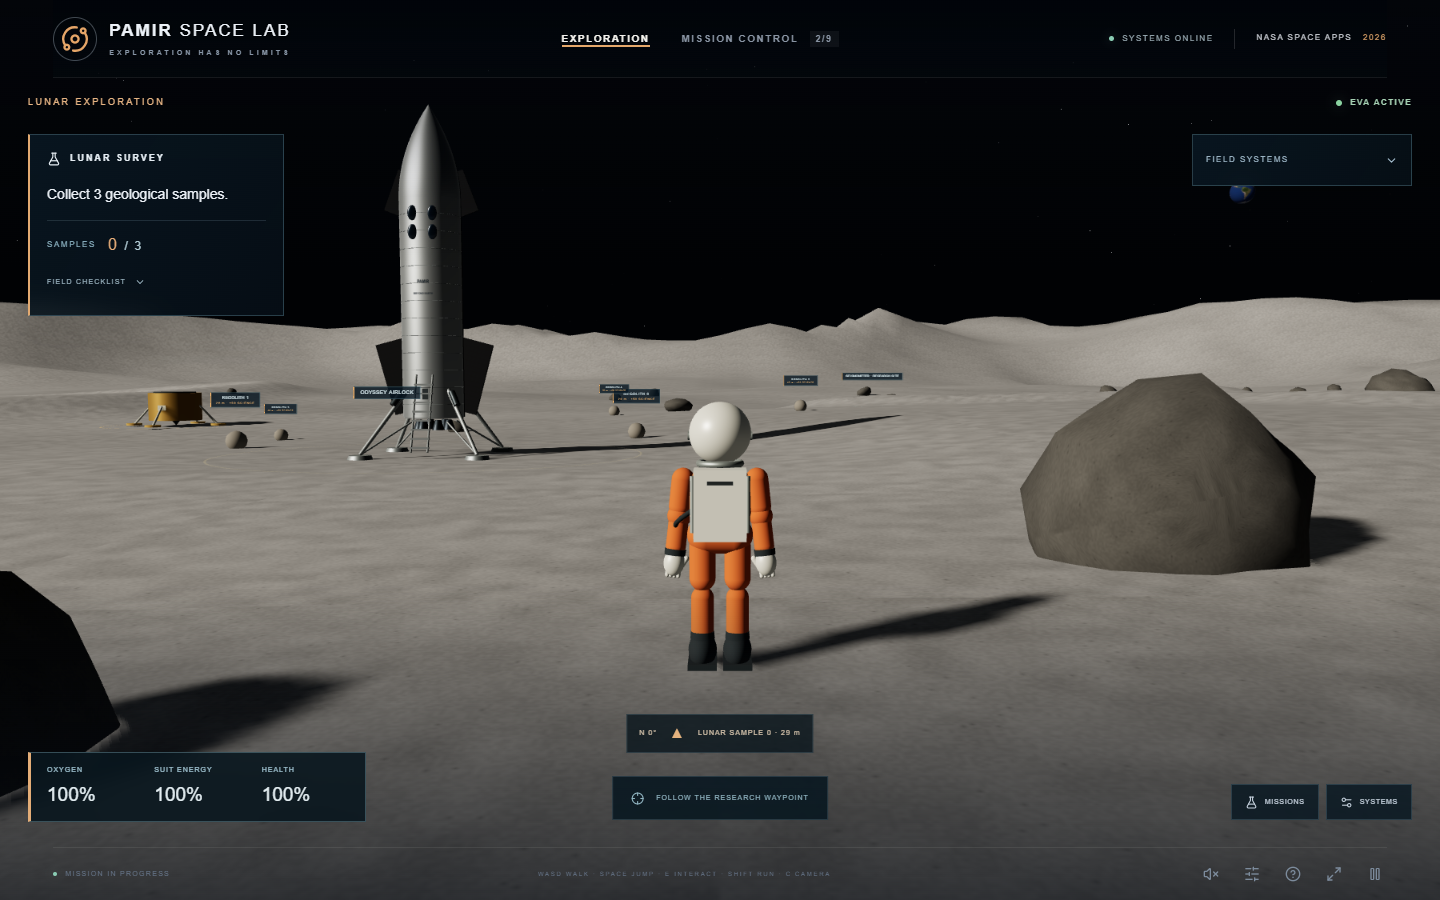
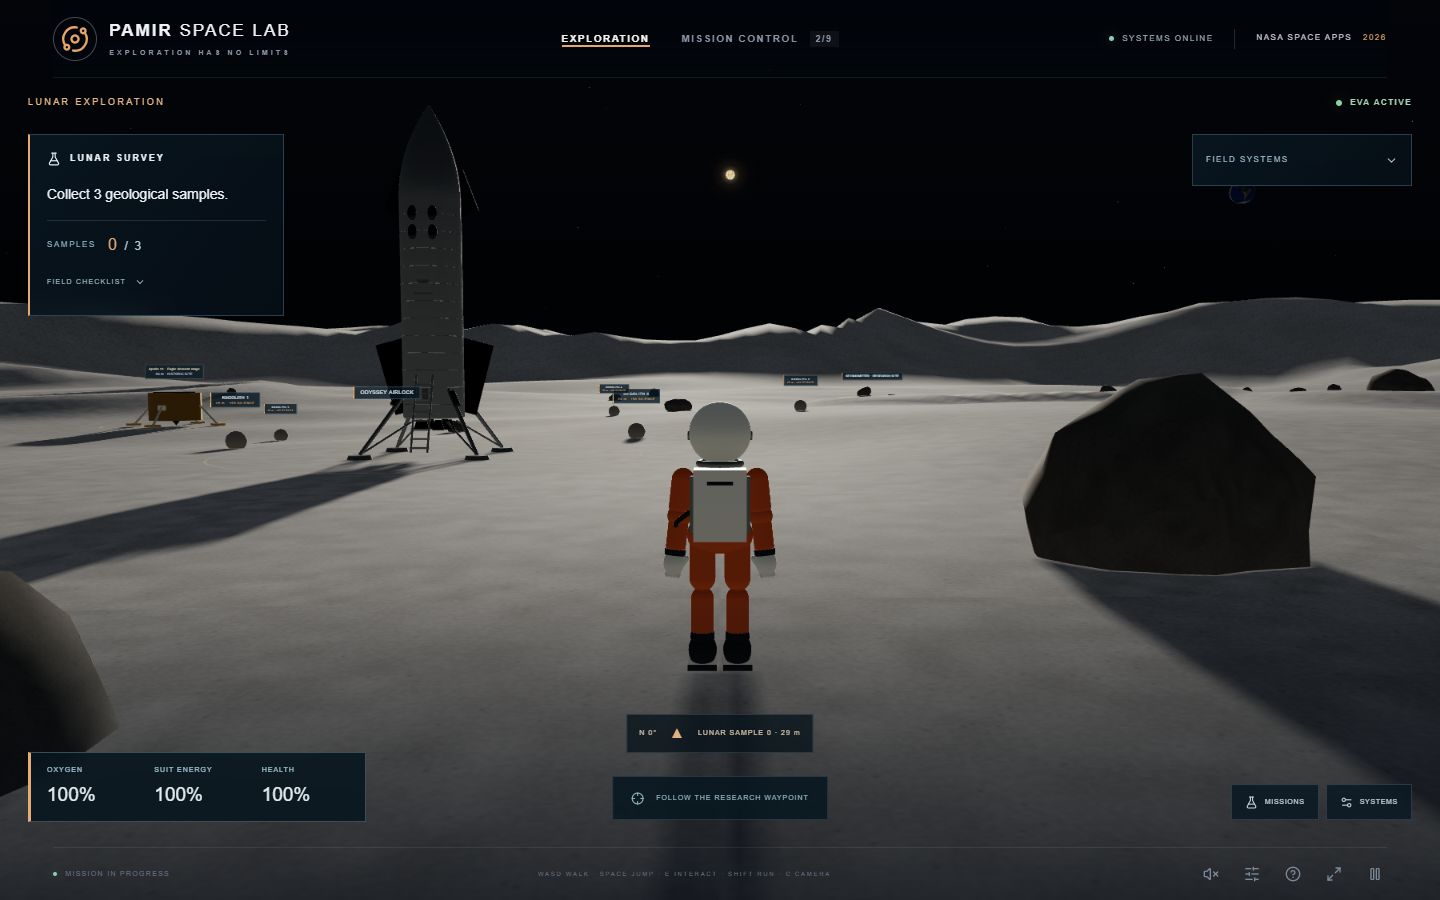
Add visible procedural Sun with aligned orbital and lunar lighting

diff --git a/src/Scene.tsx b/src/Scene.tsx
@@ -1,4 +1,6 @@
 import RoboticWorld from './RoboticWorld';
+import Sun from './Sun';
+import {SPACE_SUN_DIRECTION} from './solarLighting';
 import { usePlanetMissions } from './planetMissionStore';
 import { PlanetMissionRuntime,MissionProbe } from './PlanetMissionUI';
 import { useEffect, useMemo, useRef, useState } from 'react';
@@ -67,5 +69,5 @@ function Flight(){
   return <group ref={ship} visible={!started||(!surface&&useExpedition.getState().mode==='flight')}><Ship boost={keys.has('ShiftLeft')}/></group>;
 }
 function Starfield(){const group=useRef<THREE.Group>(null),camera=useThree(s=>s.camera),quality=useExpedition(s=>s.graphics);useFrame(()=>{group.current?.position.copy(camera.position);});return <group ref={group}><Stars radius={8000} depth={2000} count={quality==='LOW'?1500:quality==='MEDIUM'?3500:6500} factor={60} saturation={.1} fade speed={.025}/></group>;}
-function World(){const robot=usePlanetMissions(s=>s.robot);const surface=useGame(s=>s.surface);const stage=useGame(s=>s.mars.stage);const started=useGame(s=>s.started);const target=useGame(s=>s.target);const mode=useExpedition(s=>s.mode);const graphics=useExpedition(s=>s.graphics);const robotSurface=started&&!!robot&&surface===robot.planet;const marsSurface=started&&onMars(stage);const interior=started&&(mode==='station'||mode==='cabin');return <><ReflectionEnvironment/><Inputs/><ExpeditionRuntime/><PlanetMissionRuntime/>{interior?<ExpeditionWorld/>:<>{!robotSurface&&!marsSurface&&surface!=='Earth'&&<Starfield/>}{robotSurface?<RoboticWorld/>:marsSurface?<MarsWorld/>:started&&surface?(surface==='Earth'?<EarthPort/>:<MoonWorld/>):<><ambientLight intensity={.055}/><directionalLight position={[30,20,25]} intensity={3.3} color="#fffaf3"/><group scale={!started||mode==='flight'?ORBITAL_SCALE:1}>{planets.map(p=><Planet key={p.name} data={p} visible={started||p.name===target}/>)}{started&&<><StationOrbit/><EarthSatellites/><MissionProbe/></>}</group>{started&&mode==='eva'&&<ExpeditionWorld/>}</>}</>}<Flight/></>;}
+function World(){const robot=usePlanetMissions(s=>s.robot);const surface=useGame(s=>s.surface);const stage=useGame(s=>s.mars.stage);const started=useGame(s=>s.started);const target=useGame(s=>s.target);const mode=useExpedition(s=>s.mode);const graphics=useExpedition(s=>s.graphics);const robotSurface=started&&!!robot&&surface===robot.planet;const marsSurface=started&&onMars(stage);const interior=started&&(mode==='station'||mode==='cabin');return <><ReflectionEnvironment/><Inputs/><ExpeditionRuntime/><PlanetMissionRuntime/>{interior?<ExpeditionWorld/>:<>{!robotSurface&&!marsSurface&&surface!=='Earth'&&<Starfield/>}{robotSurface?<RoboticWorld/>:marsSurface?<MarsWorld/>:started&&surface?(surface==='Earth'?<EarthPort/>:<MoonWorld/>):<><ambientLight intensity={.055}/><Sun/><directionalLight position={SPACE_SUN_DIRECTION} intensity={3.3} color="#fffaf3"/><group scale={!started||mode==='flight'?ORBITAL_SCALE:1}>{planets.map(p=><Planet key={p.name} data={p} visible={started||p.name===target}/>)}{started&&<><StationOrbit/><EarthSatellites/><MissionProbe/></>}</group>{started&&mode==='eva'&&<ExpeditionWorld/>}</>}</>}<Flight/></>;}
 export default function Scene(){const [resolutionScale,setResolutionScale]=useState(1);const quality=useExpedition(s=>s.graphics);return <Canvas shadows camera={{position:[0,2,24],fov:48,near:.05,far:40000}} dpr={(quality==='LOW'?1:quality==='MEDIUM'?1.25:1.75)*resolutionScale} gl={{antialias:true,alpha:false}} onCreated={({gl})=>{gl.setClearColor('#03070e');}} onPointerDown={(e)=>{if(e.nativeEvent.pointerType!=='mouse')return;const s=useGame.getState();if(s.started&&!s.paused&&!s.uiBlocked){const canvas=e.target as HTMLCanvasElement;canvas.requestPointerLock?.()?.catch(()=>useGame.getState().set({notice:'Mouse capture unavailable. Click and drag in space, or use arrow keys.'}));}}}><World/><PerformanceBudget key={quality} scale={resolutionScale} onScale={setResolutionScale}/></Canvas>;}

diff --git a/src/Sun.tsx b/src/Sun.tsx
@@ -1,0 +1,31 @@
+import {useEffect,useMemo,useRef} from 'react';
+import {useFrame,useThree} from '@react-three/fiber';
+import * as THREE from 'three';
+import {useGame} from './store';
+import {useExpedition} from './expeditionStore';
+import {SPACE_SUN_DIRECTION,LUNAR_SUN_DIRECTION} from './solarLighting';
+
+const vertex=`varying vec3 solarLocal;varying vec3 solarWorld;varying vec3 solarNormal;
+void main(){solarLocal=position;vec4 p=modelMatrix*vec4(position,1.);solarWorld=p.xyz;solarNormal=normalize(mat3(modelMatrix)*normal);gl_Position=projectionMatrix*viewMatrix*p;}`;
+const fragment=`uniform float solarTime;varying vec3 solarLocal;varying vec3 solarWorld;varying vec3 solarNormal;
+float solarHash(vec3 p){return fract(sin(dot(p,vec3(127.1,311.7,74.7)))*43758.5453);}
+float solarNoise(vec3 p){vec3 i=floor(p),f=fract(p);f=f*f*(3.-2.*f);return mix(mix(mix(solarHash(i),solarHash(i+vec3(1,0,0)),f.x),mix(solarHash(i+vec3(0,1,0)),solarHash(i+vec3(1,1,0)),f.x),f.y),mix(mix(solarHash(i+vec3(0,0,1)),solarHash(i+vec3(1,0,1)),f.x),mix(solarHash(i+vec3(0,1,1)),solarHash(i+vec3(1,1,1)),f.x),f.y),f.z);}
+void main(){vec3 p=normalize(solarLocal);float t=solarTime*.025;float granules=solarNoise(p*24.+vec3(t,-t,t*.4))*.55+solarNoise(p*51.-vec3(t))* .3+solarNoise(p*103.)*.15;float limb=pow(max(0.,dot(normalize(solarNormal),normalize(cameraPosition-solarWorld))),.28);vec3 gold=mix(vec3(1.,.35,.055),vec3(1.,.96,.7),smoothstep(.2,.83,granules));gold*=mix(.55,1.3,limb);gl_FragColor=vec4(gold,1.);
+#include <tonemapping_fragment>
+#include <colorspace_fragment>
+}`;
+function corona(){const canvas=document.createElement('canvas');canvas.width=canvas.height=128;const c=canvas.getContext('2d')!,g=c.createRadialGradient(64,64,0,64,64,64);g.addColorStop(0,'rgba(255,238,190,0)');g.addColorStop(.14,'rgba(255,238,190,0)');g.addColorStop(.18,'rgba(255,231,174,.42)');g.addColorStop(.34,'rgba(255,185,93,.12)');g.addColorStop(.65,'rgba(255,158,60,.025)');g.addColorStop(1,'rgba(255,158,60,0)');c.fillStyle=g;c.fillRect(0,0,128,128);const map=new THREE.CanvasTexture(canvas);map.colorSpace=THREE.SRGBColorSpace;return map;}
+
+export default function Sun({lunar=false}:{lunar?:boolean}){
+ const camera=useThree(s=>s.camera),quality=useExpedition(s=>s.graphics),root=useRef<THREE.Group>(null);
+ const direction=useMemo(()=>new THREE.Vector3(...(lunar?LUNAR_SUN_DIRECTION:SPACE_SUN_DIRECTION)).normalize(),[lunar]);
+ const uniforms=useMemo(()=>({solarTime:{value:0}}),[]),map=useMemo(corona,[]),radius=lunar?40:620,distance=lunar?9000:36000;
+ useEffect(()=>()=>map.dispose(),[map]);
+ useFrame((_,delta)=>{root.current?.position.copy(camera.position).addScaledVector(direction,distance);const g=useGame.getState();if(!g.paused&&!g.uiBlocked)uniforms.solarTime.value+=Math.min(.05,delta);});
+ // Draw after transparent stars, but retain depth testing so planets, hills and
+ // buildings occlude the distant Sun. This is a sky object, not a landing target.
+ return <group ref={root} name={lunar?'Lunar-visible-sun':'Solar-visible-sun'}>
+  <mesh scale={radius} renderOrder={50} frustumCulled={false} raycast={()=>{}}><sphereGeometry args={[1,quality==='LOW'?24:48,quality==='LOW'?16:32]}/><shaderMaterial vertexShader={vertex} fragmentShader={fragment} uniforms={uniforms} transparent depthWrite={false} toneMapped={false}/></mesh>
+  <sprite scale={[radius*12,radius*12,1]} renderOrder={51} frustumCulled={false} raycast={()=>{}}><spriteMaterial map={map} transparent opacity={lunar?.7:.9} blending={THREE.AdditiveBlending} depthWrite={false} depthTest toneMapped={false}/></sprite>
+ </group>;
+}

diff --git a/src/MoonWorld.tsx b/src/MoonWorld.tsx
@@ -11,6 +11,8 @@ import { keys,consume,steering,resetInput } from './input';
 import LunarLander from './LunarLander';
 import LunarEarth from './LunarEarth';
 import LunarTerrain from './LunarTerrain';
+import Sun from './Sun';
+import {LUNAR_SUN_DIRECTION} from './solarLighting';
 import { Astronaut } from './MarsWorld';
 
 export {default as MoonHUD} from './LunarHUD';
@@ -35,7 +37,7 @@ export default function MoonWorld(){
     const pressed=consume('KeyE');telemetry.current+=dt;if(telemetry.current>.1||pressed){telemetry.current=0;s.updateSurfaceMotion('Moon',[p.x,p.y,p.z],{speed:moving.current,heading:view.current.yaw,airborne:p.y>moonHeight(p.x,p.z)+.05});e.set({moonPosition:[p.x,p.y,p.z]});}
     if(pressed){const nearby=moonSamples.some(site=>!s.samples.includes('Moon-'+site.id)&&Math.hypot(p.x-site.x,p.z-site.z)<3);const ship=Math.hypot(p.x-m.landing.x,p.z-m.landing.z-5)<3;if(nearby||ship){s.interactMoonSurface();if(ship)e.returnMoon(false);}else e.interactMoon();}
   });
-  return <><color attach="background" args={['#010204']}/><ambientLight intensity={.045}/><hemisphereLight args={['#bdc9d7','#77716a',.16]}/><directionalLight name="Lunar-low-angle-sun" castShadow position={[-65,38,45]} intensity={3.5} color="#fff6e8" shadow-mapSize-width={quality==='LOW'?1024:2048} shadow-mapSize-height={quality==='LOW'?1024:2048} shadow-camera-left={-75} shadow-camera-right={75} shadow-camera-top={75} shadow-camera-bottom={-75} shadow-camera-near={.5} shadow-camera-far={220} shadow-normalBias={.035} shadow-bias={-.00015}/><LunarTerrain/><group ref={history}><HeritageWorld planet="Moon"/></group>
+  return <><color attach="background" args={['#010204']}/><Sun lunar/><ambientLight intensity={.095}/><hemisphereLight args={['#bdc9d7','#77716a',.5]}/><directionalLight name="Lunar-low-angle-sun" castShadow position={LUNAR_SUN_DIRECTION} intensity={3.5} color="#fff6e8" shadow-mapSize-width={quality==='LOW'?1024:2048} shadow-mapSize-height={quality==='LOW'?1024:2048} shadow-camera-left={-75} shadow-camera-right={75} shadow-camera-top={75} shadow-camera-bottom={-75} shadow-camera-near={.5} shadow-camera-far={220} shadow-normalBias={.035} shadow-bias={-.00015}/><LunarTerrain/><group ref={history}><HeritageWorld planet="Moon"/></group>
     <Suspense fallback={null}><LunarEarth/></Suspense>
     <mesh position={[0,.018,13]} rotation={[-Math.PI/2,0,0]}><ringGeometry args={[5.74,5.8,96]}/><meshBasicMaterial color="#c4ad79" transparent opacity={.28} depthWrite={false}/></mesh>
     <group ref={lander} name="Lunar-lander-root" position={[moon.landing.x,moonHeight(moon.landing.x,moon.landing.z)+moon.landing.altitude,moon.landing.z]}><LunarLander/><group ref={flames} position={[0,.6,0]}>{[-1,1].map(x=><mesh key={x} position={[x*.36,-.65,0]} rotation={[Math.PI,0,0]}><coneGeometry args={[.18,1.5,16]}/><meshBasicMaterial color="#b0e4ff" transparent opacity={.65} depthWrite={false}/></mesh>)}</group></group>

diff --git a/src/ReflectionEnvironment.tsx b/src/ReflectionEnvironment.tsx
@@ -2,17 +2,19 @@ import { useEffect } from 'react';
 import { useThree } from '@react-three/fiber';
 import * as THREE from 'three';
 import { useGame } from './store';
+import { LUNAR_SUN_DIRECTION } from './solarLighting';
 export default function ReflectionEnvironment(){
   const gl=useThree(s=>s.gl),scene=useThree(s=>s.scene),surface=useGame(s=>s.surface);
   useEffect(()=>{
     const canvas=document.createElement('canvas');canvas.width=1024;canvas.height=512;const c=canvas.getContext('2d')!;
     const sky=c.createLinearGradient(0,0,0,512),earth=surface==='Earth',mars=surface==='Mars',moon=surface==='Moon';
     sky.addColorStop(0,earth?'#6f99bf':mars?'#5e4137':moon?'#000001':'#101a2b');sky.addColorStop(.36,earth?'#dce7ec':mars?'#ddb486':moon?'#030405':'#526178');sky.addColorStop(.49,moon?'#101114':'#fff1d9');sky.addColorStop(.54,earth?'#8d9388':mars?'#9e6242':moon?'#8b8780':'#202b3e');sky.addColorStop(1,moon?'#51514f':'#151c24');c.fillStyle=sky;c.fillRect(0,0,1024,512);
-    const sun=c.createRadialGradient(220,150,0,220,150,130);sun.addColorStop(0,'rgba(255,255,246,1)');sun.addColorStop(.2,'rgba(255,248,221,.85)');sun.addColorStop(1,'rgba(255,255,255,0)');c.fillStyle=sun;c.fillRect(0,0,500,400);
+    const direction=new THREE.Vector3(...LUNAR_SUN_DIRECTION).normalize(),sx=moon?(Math.atan2(direction.z,direction.x)/(Math.PI*2)+.5)*1024:220,sy=moon?(.5-Math.asin(direction.y)/Math.PI)*512:150;
+    const sun=c.createRadialGradient(sx,sy,0,sx,sy,moon?65:130);sun.addColorStop(0,'rgba(255,255,246,1)');sun.addColorStop(.2,'rgba(255,248,221,.85)');sun.addColorStop(1,'rgba(255,255,255,0)');c.fillStyle=sun;c.fillRect(0,0,1024,512);
     if(!moon){c.fillStyle='rgba(225,238,246,.45)';c.fillRect(650,100,24,170);c.fillRect(735,125,9,120);}
     const source=new THREE.CanvasTexture(canvas);source.colorSpace=THREE.SRGBColorSpace;source.mapping=THREE.EquirectangularReflectionMapping;
     const generator=new THREE.PMREMGenerator(gl),target=generator.fromEquirectangular(source),previous=scene.environment,previousIntensity=scene.environmentIntensity;
-    scene.environment=target.texture;scene.environmentIntensity=earth?.85:moon?.5:.65;
+    scene.environment=target.texture;scene.environmentIntensity=earth?.85:moon?.75:.65;
     return()=>{scene.environment=previous;scene.environmentIntensity=previousIntensity;target.dispose();source.dispose();generator.dispose();};
   },[gl,scene,surface]);return null;
 }

diff --git a/src/PlanetBody.tsx b/src/PlanetBody.tsx
@@ -5,8 +5,9 @@ import { planets,useGame } from './store';
 import { useExpedition } from './expeditionStore';
 import texture,{cloudTexture,localTexture} from './planetTextures';
 import { planetVisuals } from './planetVisuals';
+import { SPACE_SUN_DIRECTION } from './solarLighting';
 
-const sunlight=new THREE.Vector3(30,20,25).normalize();
+const sunlight=new THREE.Vector3(...SPACE_SUN_DIRECTION).normalize();
 const atmosphereVertex=`varying vec3 worldNormal; varying vec3 worldPosition;
 void main(){vec4 p=modelMatrix*vec4(position,1.);worldPosition=p.xyz;worldNormal=normalize(mat3(modelMatrix)*normal);gl_Position=projectionMatrix*viewMatrix*p;}`;
 const atmosphereFragment=`uniform vec3 tint;uniform vec3 sun;varying vec3 worldNormal;varying vec3 worldPosition;

diff --git a/src/solarLighting.ts b/src/solarLighting.ts
@@ -1,0 +1,4 @@
+// Surface scenes have their own local coordinate frame. Keep each visible solar
+// disc and its directional light in the same frame; navigation saves stay stable.
+export const SPACE_SUN_DIRECTION:[number,number,number]=[30,20,25];
+export const LUNAR_SUN_DIRECTION:[number,number,number]=[1,20,-100];

diff --git a/SUN.md b/SUN.md
@@ -1,0 +1,11 @@
+# Visible Sun
+
+Orbital exploration and the lunar surface now render an emissive-looking procedural solar sphere, moving granulation and a soft corona. A small radial texture is generated locally; no downloaded solar asset, API or postprocessing bloom pass is required.
+
+The orbital directional light, planet day/night effects and visible Sun share `SPACE_SUN_DIRECTION`. The lunar disc, shadow-casting sunlight and reflection highlight share the Moon's local `LUNAR_SUN_DIRECTION`. A modest ambient/hemisphere fill keeps the astronaut readable when looking toward the Sun.
+
+This is a distant camera-relative sky object. It stays within the camera range when travelling to outer planets. Its geometry retains depth testing, so nearer solid objects and terrain can cover it; its halo does not paint over those objects. Space and surface coordinates remain the existing compressed game frames. Apparent size is artistic, especially in orbital view; this is not a date-dependent solar ephemeris or a new navigable/landable destination.
+
+The animation pauses with gameplay. LOW uses fewer sphere subdivisions. The implementation adds a sphere and a sprite and preserves keyboard/touch controls, mission rewards and saves.
+
+`npm run build` checks TypeScript and production compilation. The existing 18 suites remain the gameplay regression checks. `node --experimental-strip-types scripts/qa-sun.mjs` renders private production-build fixtures for orbital cockpit, desktop Moon and phone Moon, capturing screenshots under ignored `artifacts/sun/` and checking runtime / shader errors. It can also target the public site through `PAMIR_GAME_URL`. Physical-phone performance is not benchmarked.

diff --git a/README.md b/README.md
@@ -20,7 +20,7 @@ Allow **3–5 minutes**. The model route completes in about 146 simulated second
 
 ## Lunar exploration update
 
-The Moon scene now has cratered regolith, continuous distant ridges, a small distant Earth, ground-contact shadows, a brushed-metal reusable lander with landing gear and a walking boot trail. Its compact survey/descent HUD also supports touch controls. See [lunar visuals and verification](LUNAR_VISUALS.md).
+The Moon scene now has cratered regolith, continuous distant ridges, a visible Sun, a small distant Earth, ground-contact shadows, a brushed-metal reusable lander with landing gear and a walking boot trail. Its compact survey/descent HUD also supports touch controls. See [lunar visuals and verification](LUNAR_VISUALS.md) and [visible Sun](SUN.md).
 
 ![Actual lunar gameplay renderer, isolated review scene](docs/images/lunar-exploration.png)
 
